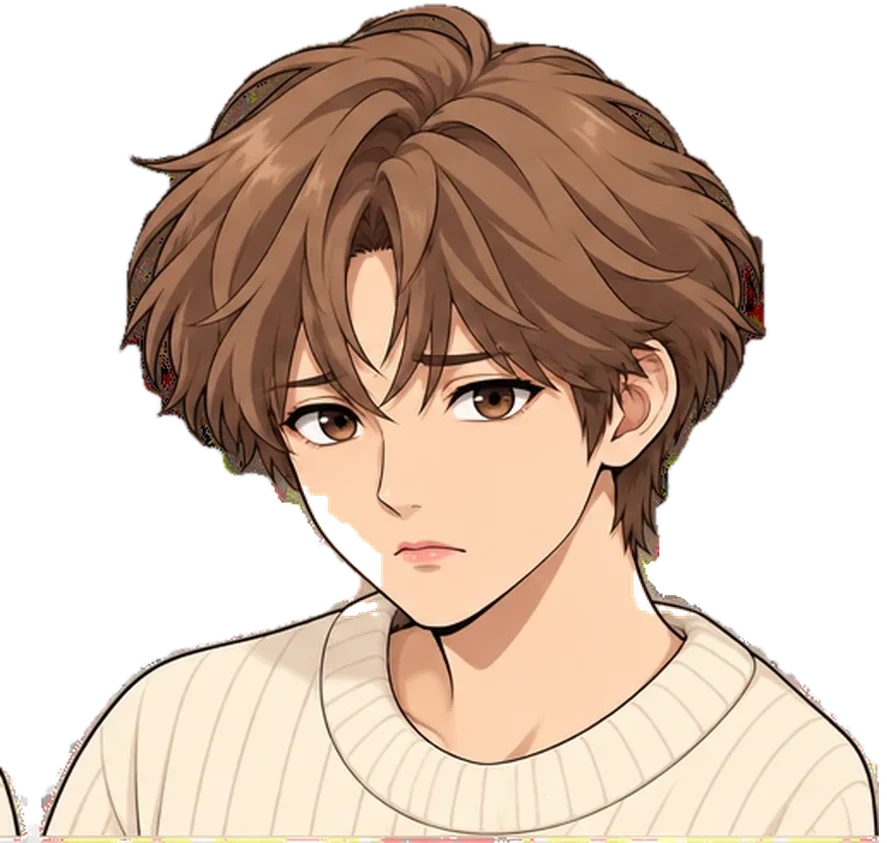
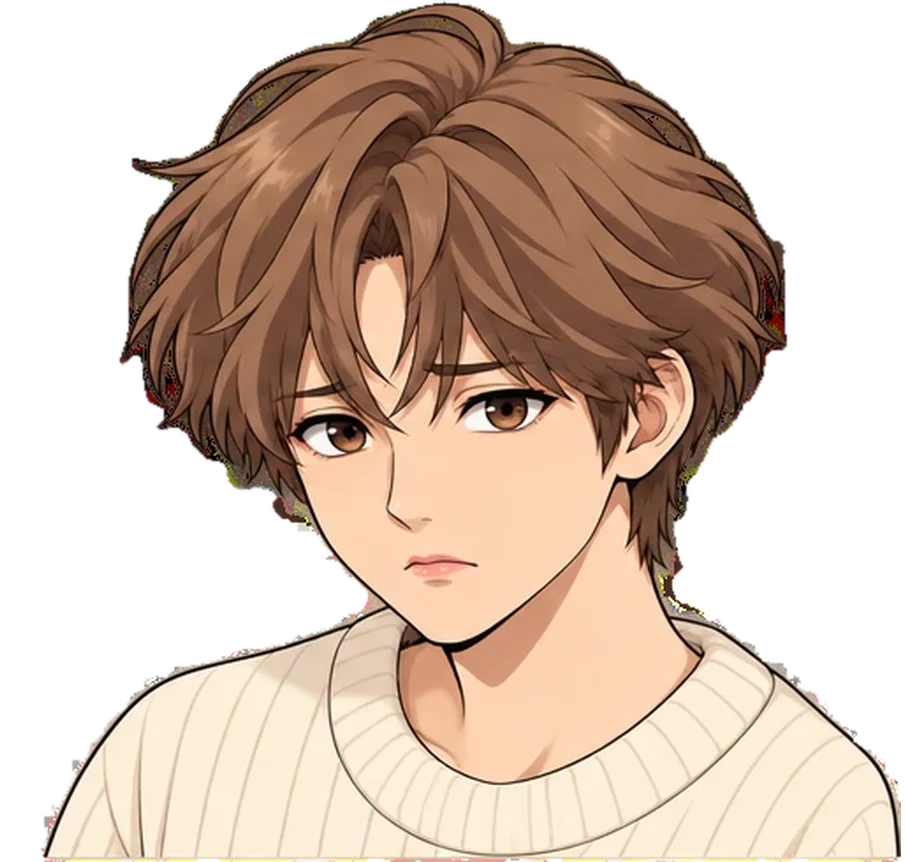
FEMC: cleaner Sunoo cutout (no clipped cheek or corner scraps)

diff --git a/femc-mode.js b/femc-mode.js
@@ -7,7 +7,7 @@
   const BASE = new URL('.', document.currentScript.src).href;
   // Cache-busting version for every FEMC data file and image under assets/femc/ (portraits, backgrounds, tarot,
   // profile art, link files, compendium, bgm). Bump it whenever any of them change; see MAINTENANCE.md.
-  const FEMC_ASSET_VERSION = 98;
+  const FEMC_ASSET_VERSION = 99;
   const KEY = 'kg-femc', SOUND = 'kg-femc-sound', BGM = 'kg-femc-bgm';
   const get = k => { try { return localStorage.getItem(k); } catch (e) { return null; } };
   const set = (k, v) => { try { v === null ? localStorage.removeItem(k) : localStorage.setItem(k, v); } catch (e) {} };
